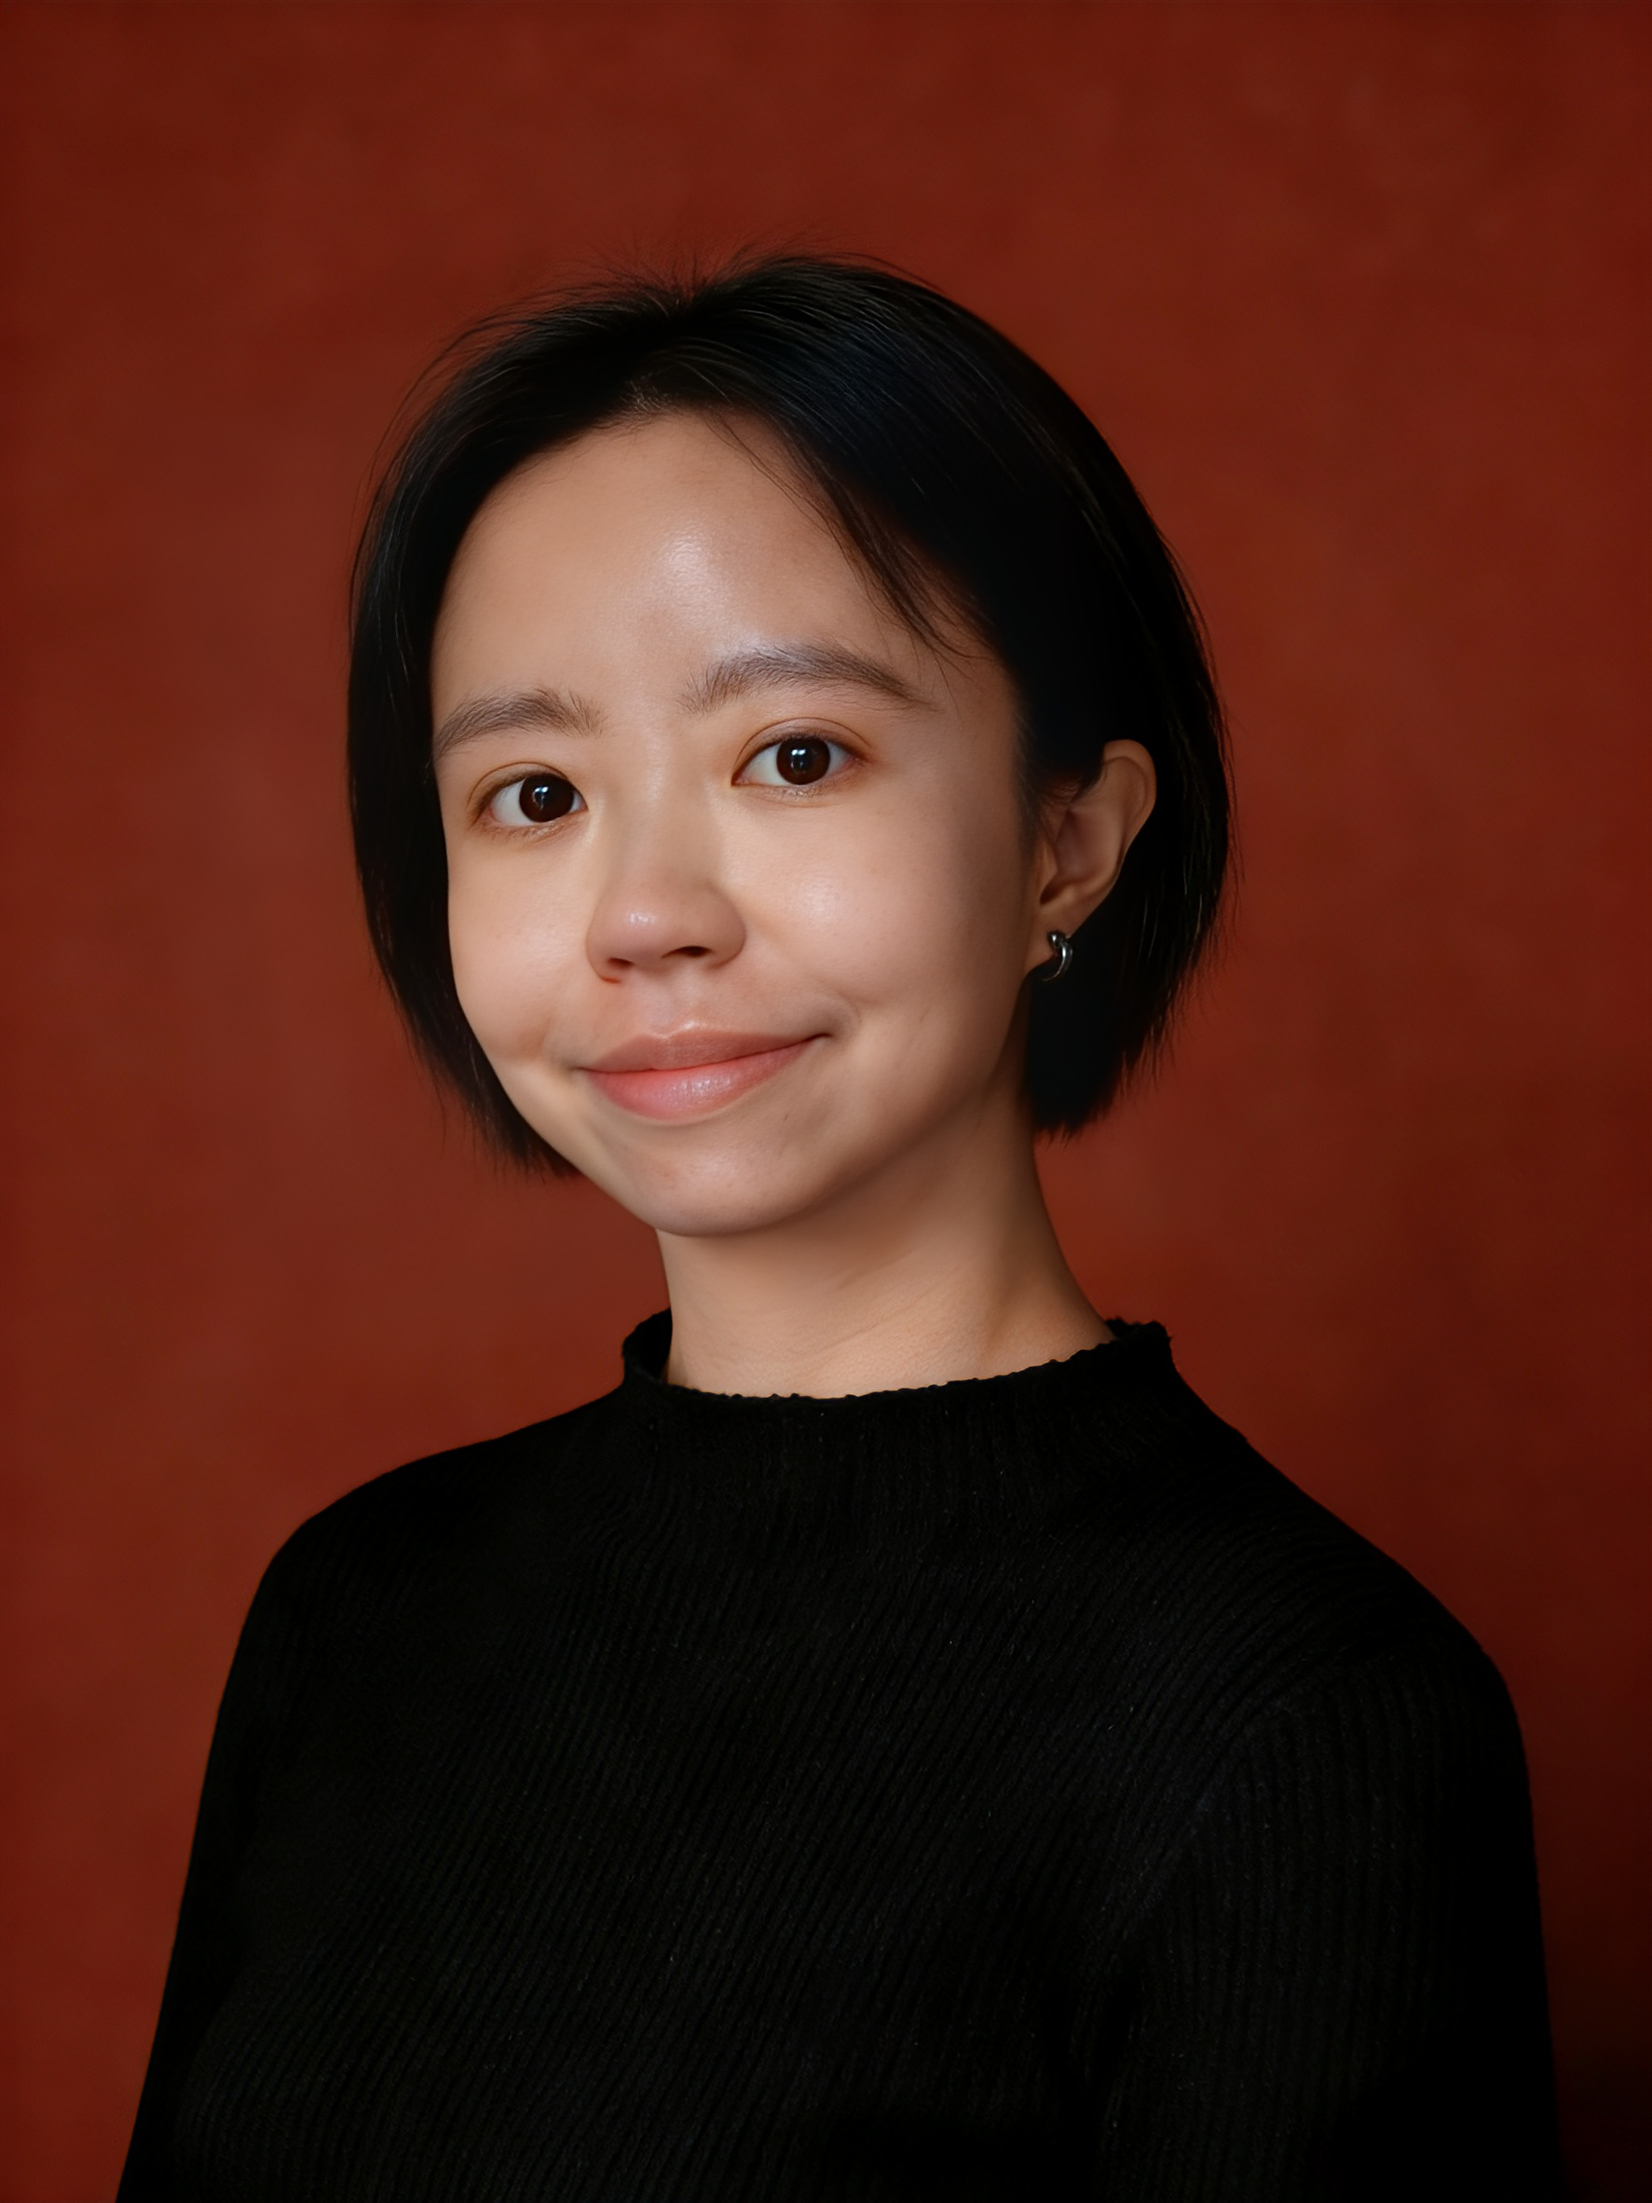
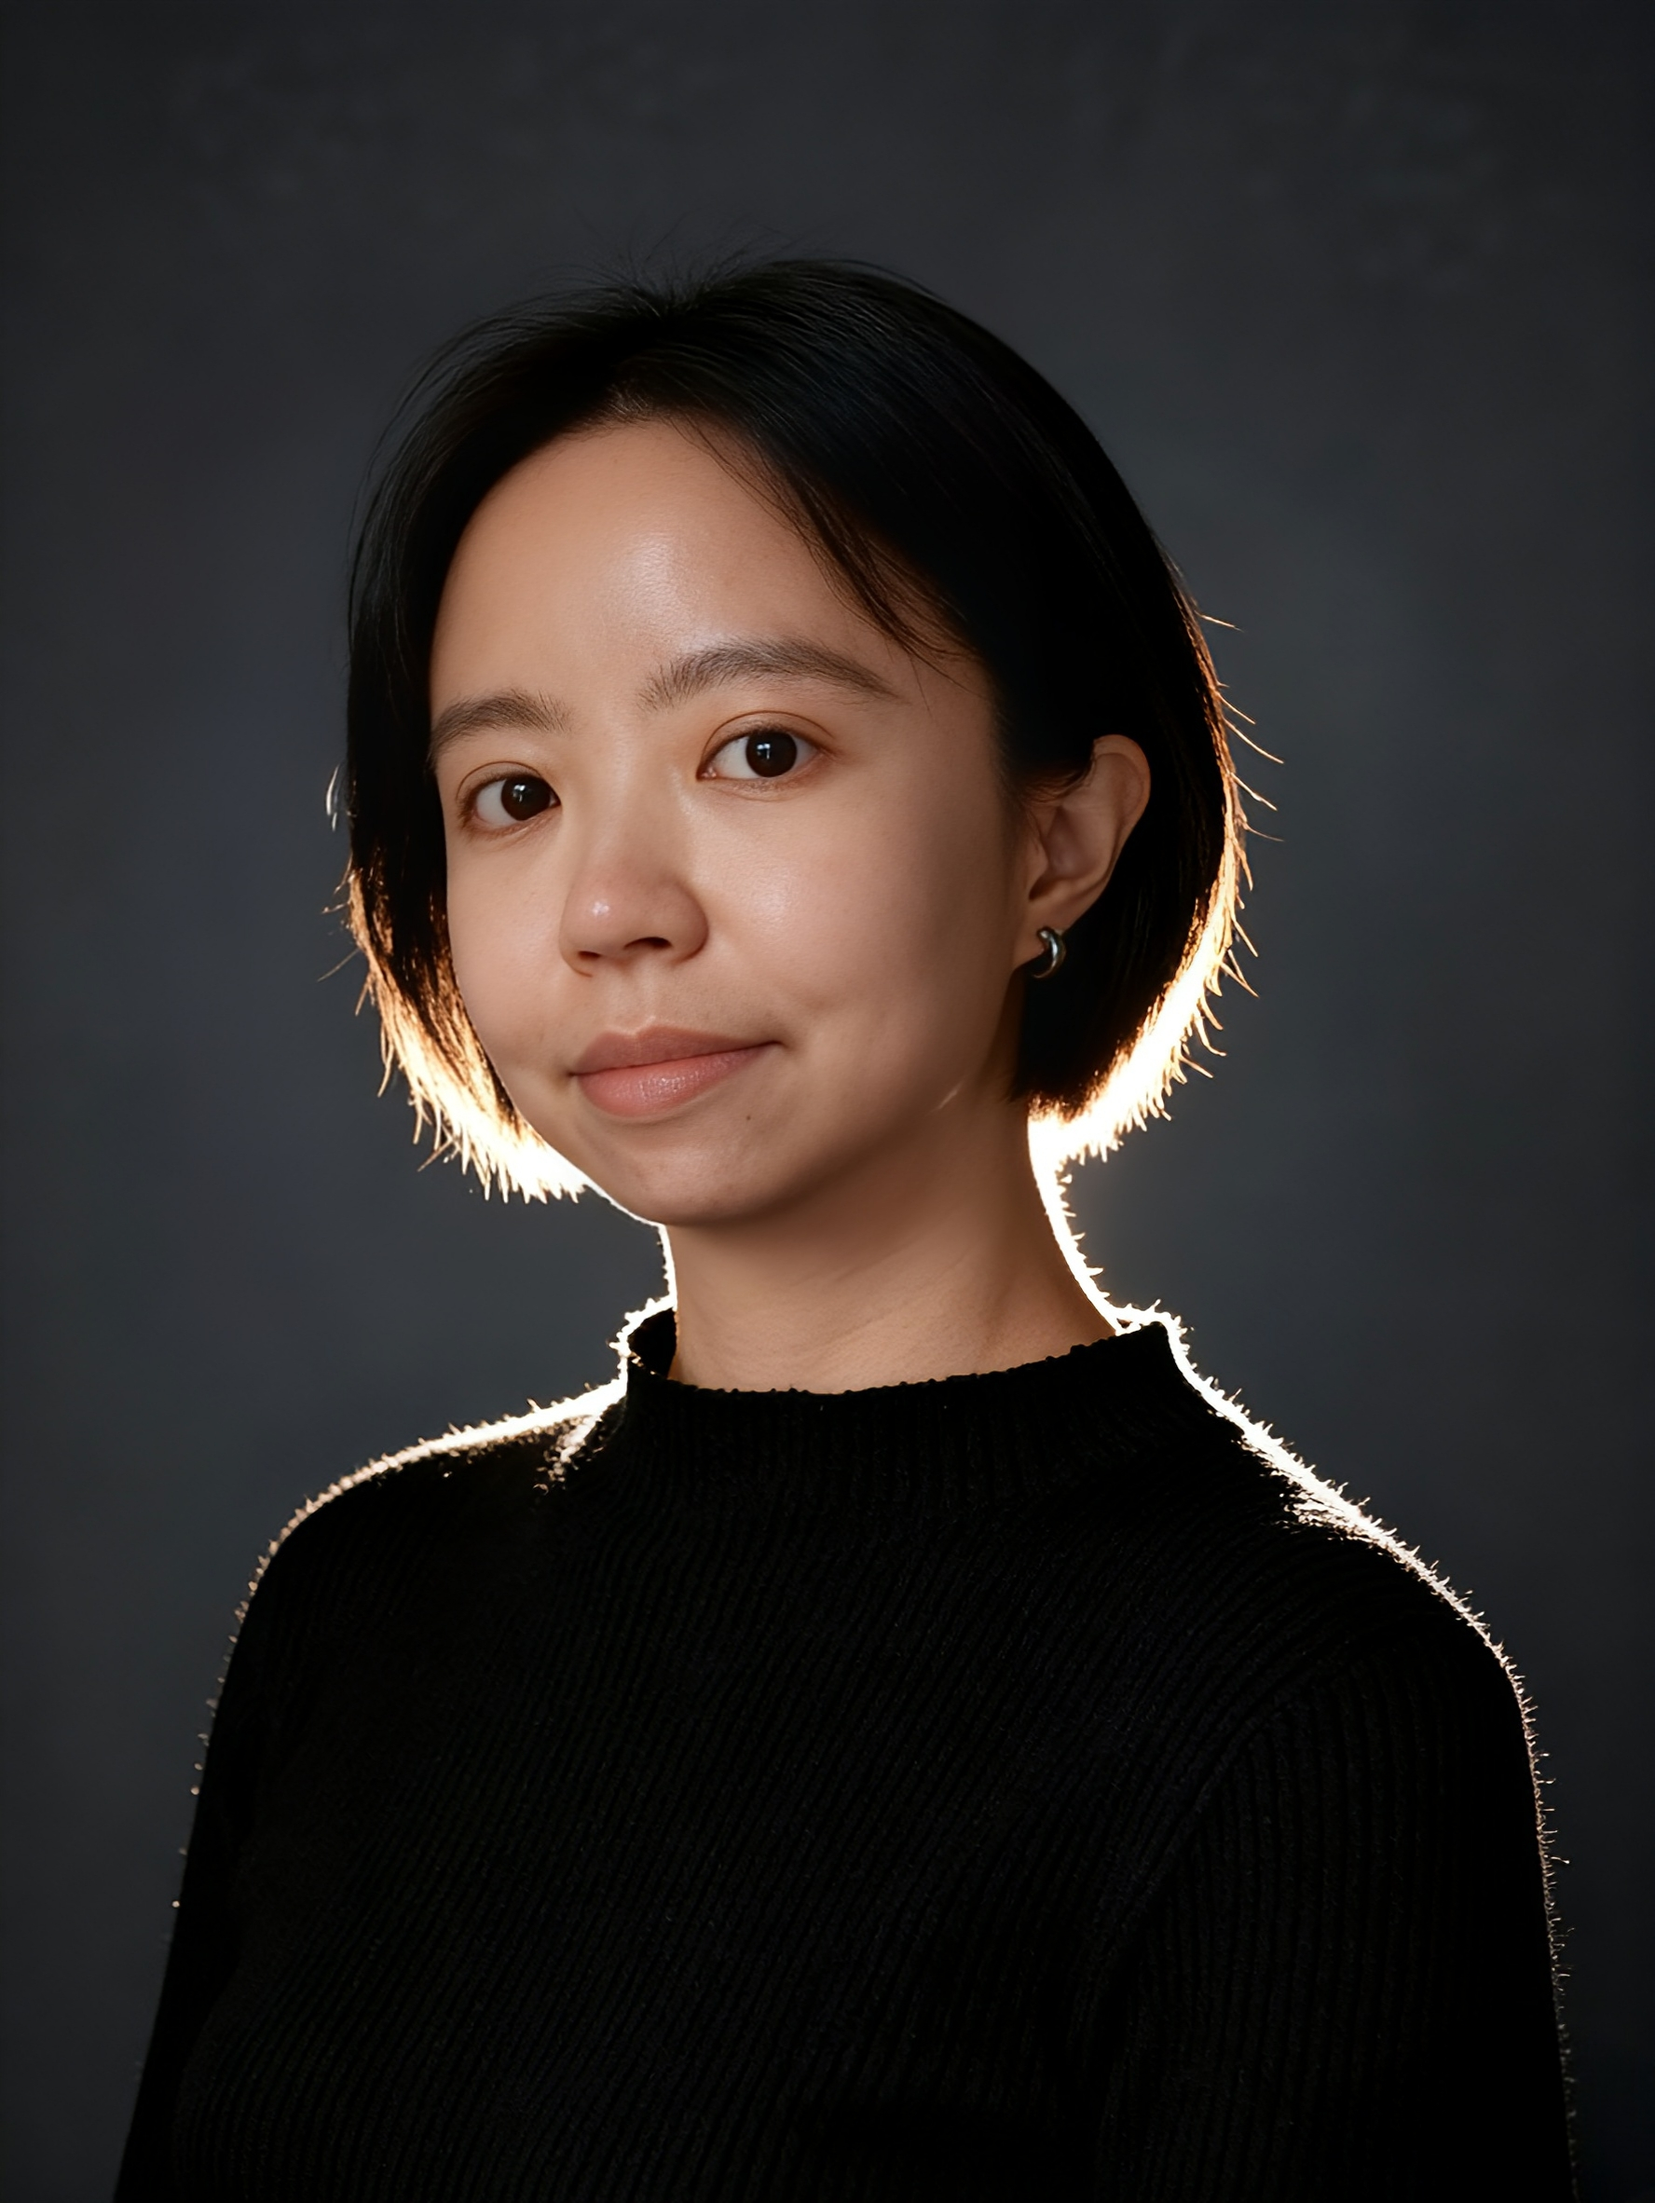
push all changes

diff --git a/src/App.tsx b/src/App.tsx
@@ -20,13 +20,14 @@ const App: React.FC = () => {
       {/* Header / Nav */}
       <header className="fixed top-0 w-full z-50 bg-[#F9F8F6]/40 backdrop-blur-sm">
         <div className="container mx-auto px-8 py-8 flex justify-between items-center">
-          <div
+          <a
+            href="#about"
             className="text-lg font-bold tracking-[0.3em] cursor-pointer group uppercase"
             onMouseEnter={() => setParticleMode('lines')}
             onMouseLeave={() => setParticleMode('idle')}
           >
             Jianying <span style={{ color: COLORS.primary }} className="group-hover:text-black transition-colors duration-500">Wang</span>
-          </div>
+          </a>
           <nav className="hidden md:flex gap-12 items-center">
             {['Expertise', 'Showcase'].map(item => (
               <a
@@ -96,7 +97,7 @@ const App: React.FC = () => {
       <section id="work" className="relative z-10 py-40 border-t border-black/5">
         <div className="container mx-auto px-8 mb-24">
           <div className="flex flex-col md:flex-row md:items-end justify-between gap-6">
-            <div>
+            <div id="expertise" className="scroll-mt-48">
               <p className="text-[11px] font-bold uppercase tracking-[0.5em] text-[#D9A299] mb-4">Domains & Expertise</p>
               <h2 className="text-5xl md:text-7xl font-bold tracking-tighter uppercase">Expertise</h2>
             </div>
